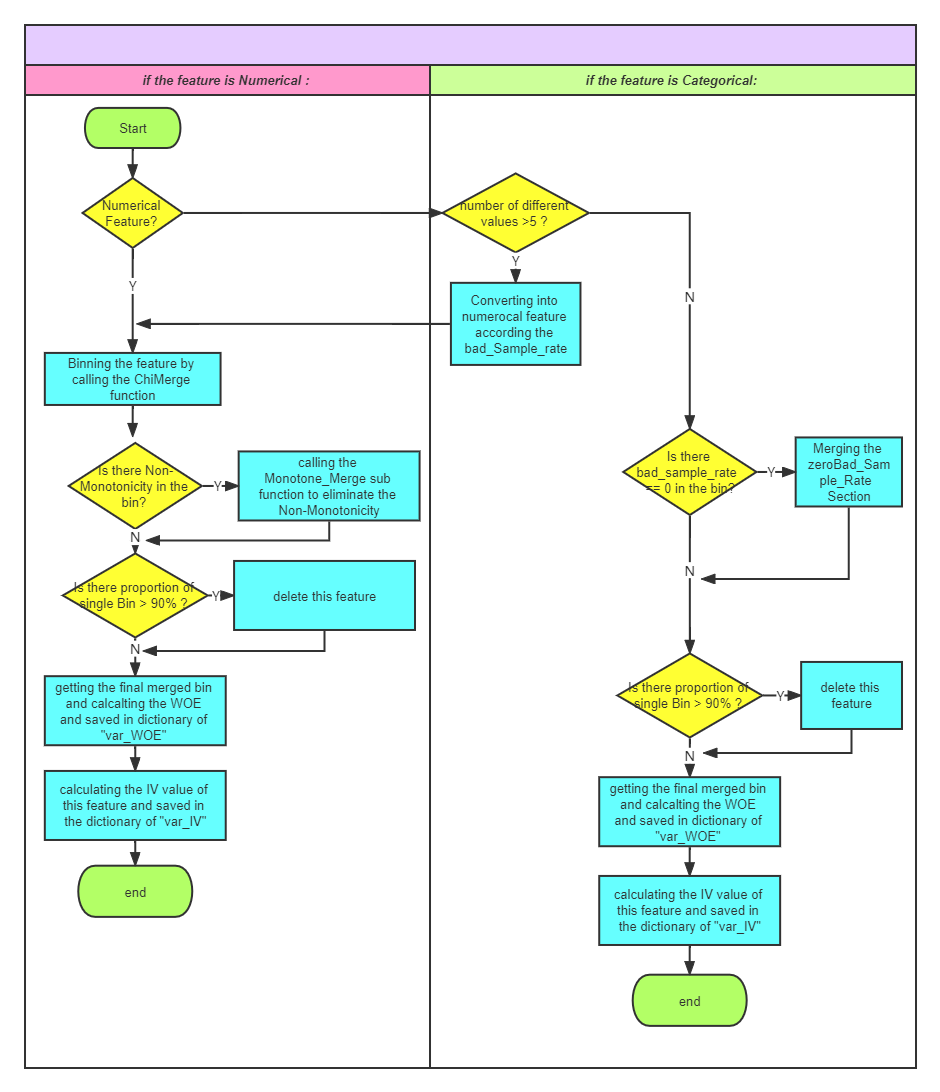
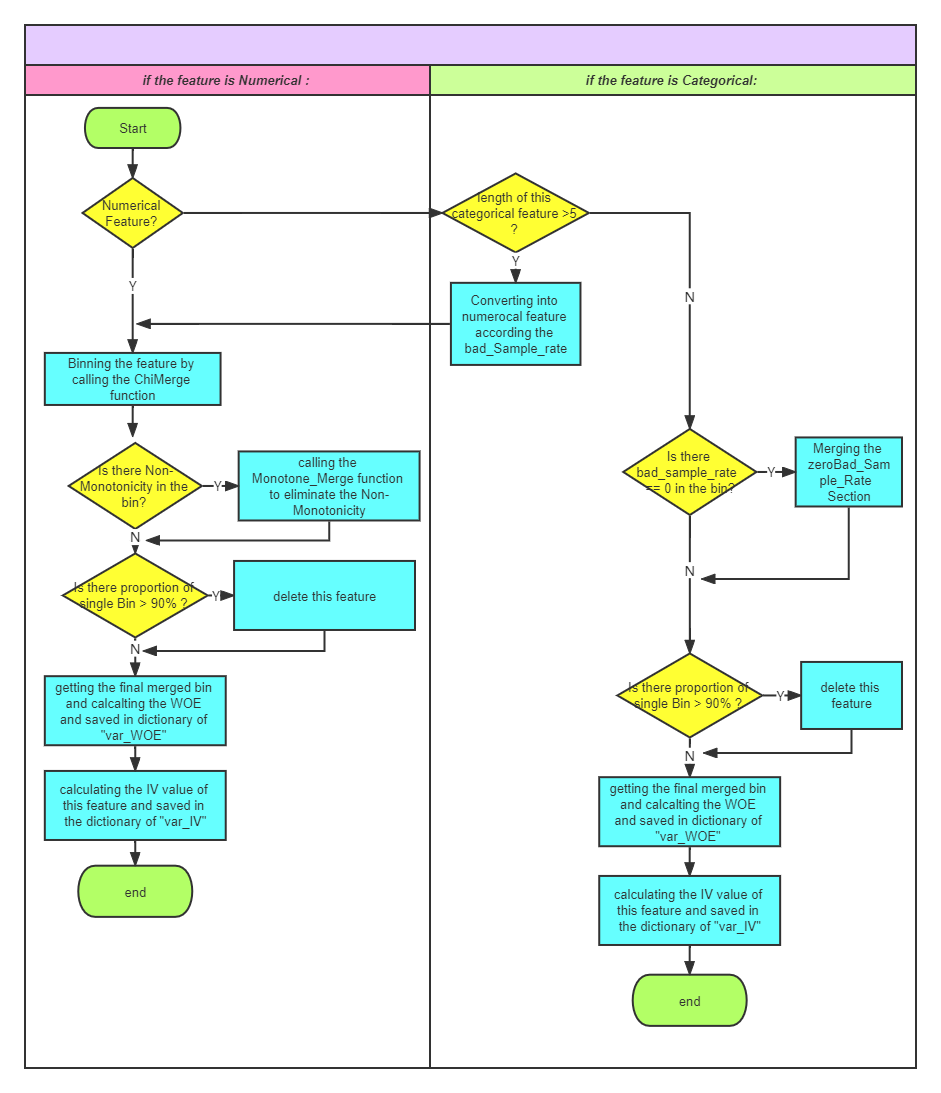
Version 5.300 updating the README png image files and the whole_note explaining information

diff --git a/README.md b/README.md
@@ -6,14 +6,14 @@ This model predicts the default probability of the credit card applicant samples
 ## 1.1 Data  
 The data mainly consists of three parts. Part 1 is the applicant's login information, Part 2 is the applicant's own attribute information, including the applicant's Idx, place of residence, third-party information, and default information "target", Part 3 is the applicant's modified information.
  
-## 1.2 The concept of binning
+## 1.2 The concept of Chi-Square(χ2) binning
 This model adopts the data binning technique. This technique categorizes similar samples into one bin. The basis for determining similarity is to calculate the Chi-Square values of two adjacent bins of the samples and their corresponding p-values. The smaller Chi-Square value, the more similarity.
 
-### The benefits of binning technology:
+### The benefits of Chi-square binning technology:
 
 A. The model is stable. Minor changes in sample values do not affect the performance of the model. For example, a slight change in applicant’s income will not affect the predicted score of the sample.
 
-B. Missing value data does not affect scoring. For missing value data, they can be directly categorized in one bin.
+B. Missing value data does not affect the result. For missing value data, they can be directly categorized in one bin.
 
 C. Model can handle the categorical features.
 
@@ -24,7 +24,7 @@ A. Has impact on accuracy rate
 B. If the original feature data has monotonicity, it may not be able to maintain monotonicity after binning. For example, in terms of education, generally speaking, the higher the education , the lower the default rate. So we should keep attention to maintain this monotonicity after binning.
  
 
-## 1.3 Calculating the WOE and IV  
+## 1.3 the WOE and IV calculating   
 (1) After binning, calculate the WOE of each bin to encode the features. WOE measures how much the proportion of good to bad in this bin exceeds the overall good to bad ratio. Namely:
 
 WOE=ln (G1/G/B1/B)=ln (G1/B1/G/B)=(lnG1/B1) - (lnG/B)
@@ -45,15 +45,11 @@ Similarly, time slicing the number of days between the information updated date 
 # Section 3 Data Wrangling 
 ## 3.1 Check the outlier of categorical feature and numerical feature  
 This step is mainly about data filling and checking the concentration ratio of data.  
-(1)Check concentration ratio. Check the proportion of the maximum value in each feature. If the data concentration ratio is greater than 90% and there is no significant difference (i.e. (minority value bad sample rate/maximum value bad sample rate)<=10). This indicates excessive concentration rate. We need to cancel this feature.  
+(1) Check concentration ratio. Check the proportion of the maximum value in each feature. If the data concentration ratio is greater than 90% and there is no significant difference (i.e. (minority value bad sample rate/maximum value bad sample rate)<=10). This indicates excessive concentration rate. We need to cancel this feature.  
 (2) Check for missing values. For categorical or numerical features, if more than 80% are missing, delete them.  
 (3) If the missing value is less than 80%, the category feature will be assigned a value of -1, and the numerical feature will be assigned a random non missing value in this column.  
 
-## 3.2 Check monotonicity(detail at Section 4.4)
 
-## 3.3 Check whether each bin contains both good and bad samples(detail at Section 4.3)
-
-## 3.2 Single-feature and multi-features analysis(detail at Section 4.6)
 
 
 
@@ -66,7 +62,7 @@ This step is mainly about data filling and checking the concentration ratio of d
 (2)After ChiMerge function was finished, check the monotonicity of the bad sample rate of these bins. If monotonicity is not satisfied, merge the bins by the Monotone_Merge function until monotonicity is satisfied.  
 (3)Check if there is the proportion of a single value in each feature exceeding 90%. if yes , then deleting this feature.
 
-## 4.2 For categorical features , there is a slightly difference in binning.
+## 4.2 categorical features and numerical features are processed separately.
 (1) Categorical features with large number of different values were needed to be encoded and converted into numerical features according the bad ratio, and then be processed as the ordinary numerical features binning.  
 (2) Replace the feature name with the original name+  “_Encoding”, and then the feature will be directly be processed in the numerical feature binning.  
 (3) Category features with fewer values do not need to be binned, but it is necessary to check whether the bad sample rate for each categorical value equals to 0  
@@ -188,7 +184,7 @@ The equation can ensure that:
 (1) When the probability of good to bad decreases by one time, the score increases by one basic unit, that is one PDO.  
 (2) Ensure positive scores  
 
-For example:  
+Case:  
 When a customer's default probability is 20%, the good to bad ratio is 4 (80%/20%), and the score is 200;  
 When a customer's default probability is 11% and the good to bad ratio is 8 (89%/11%), the score is 300 (an increase of 1 PDO);  
 
